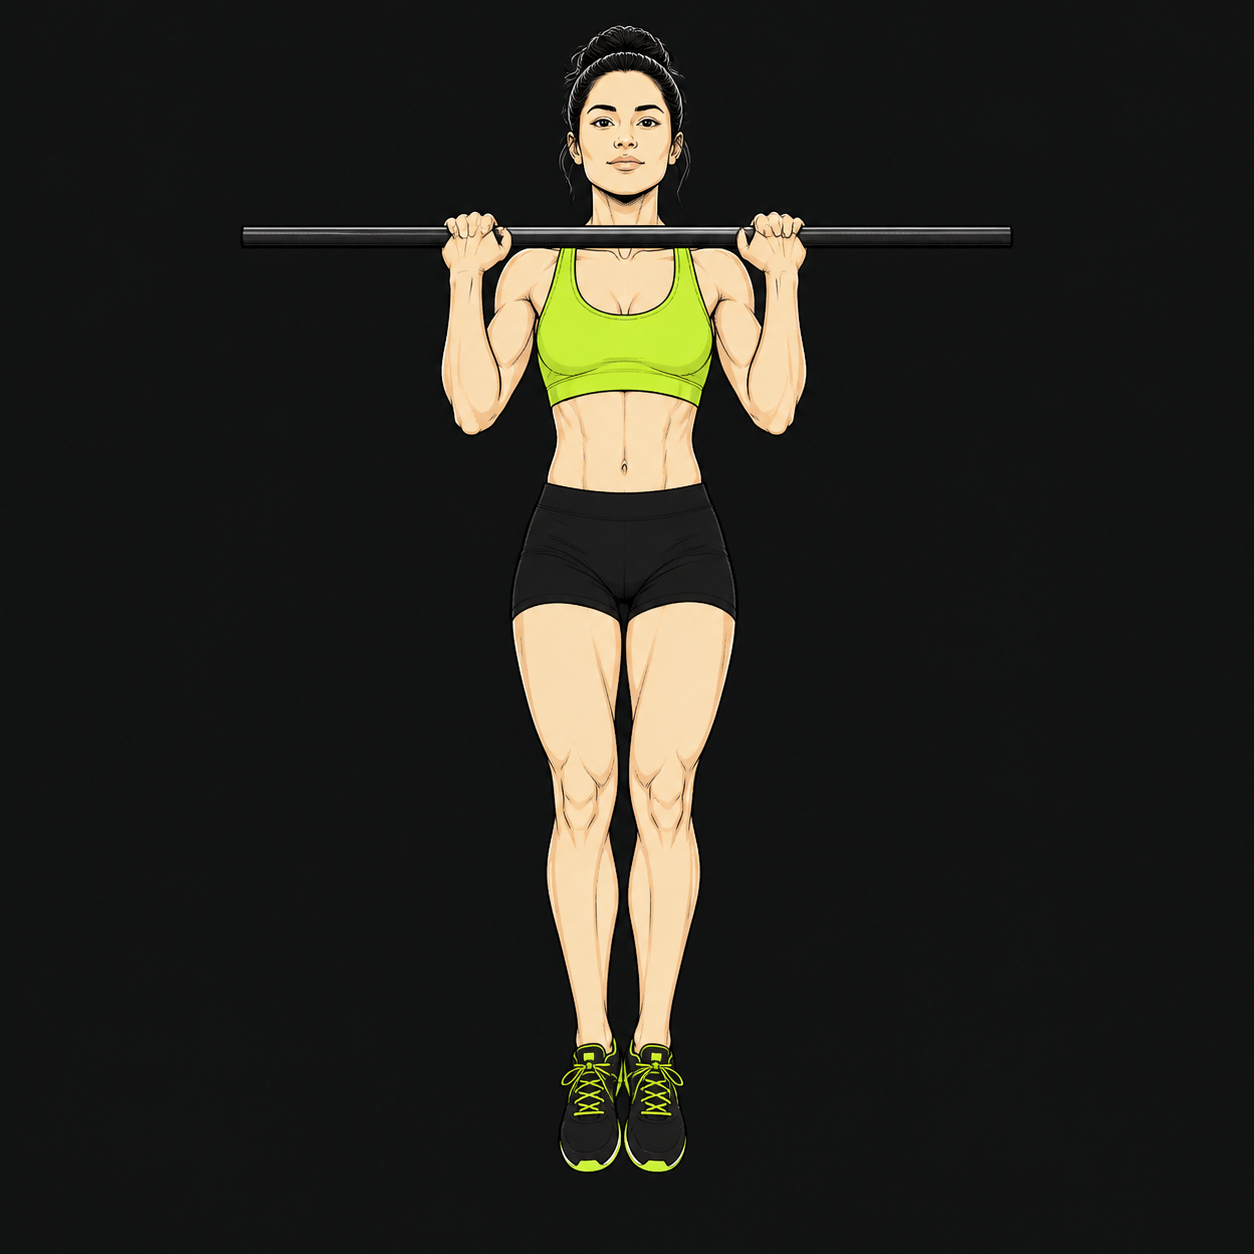
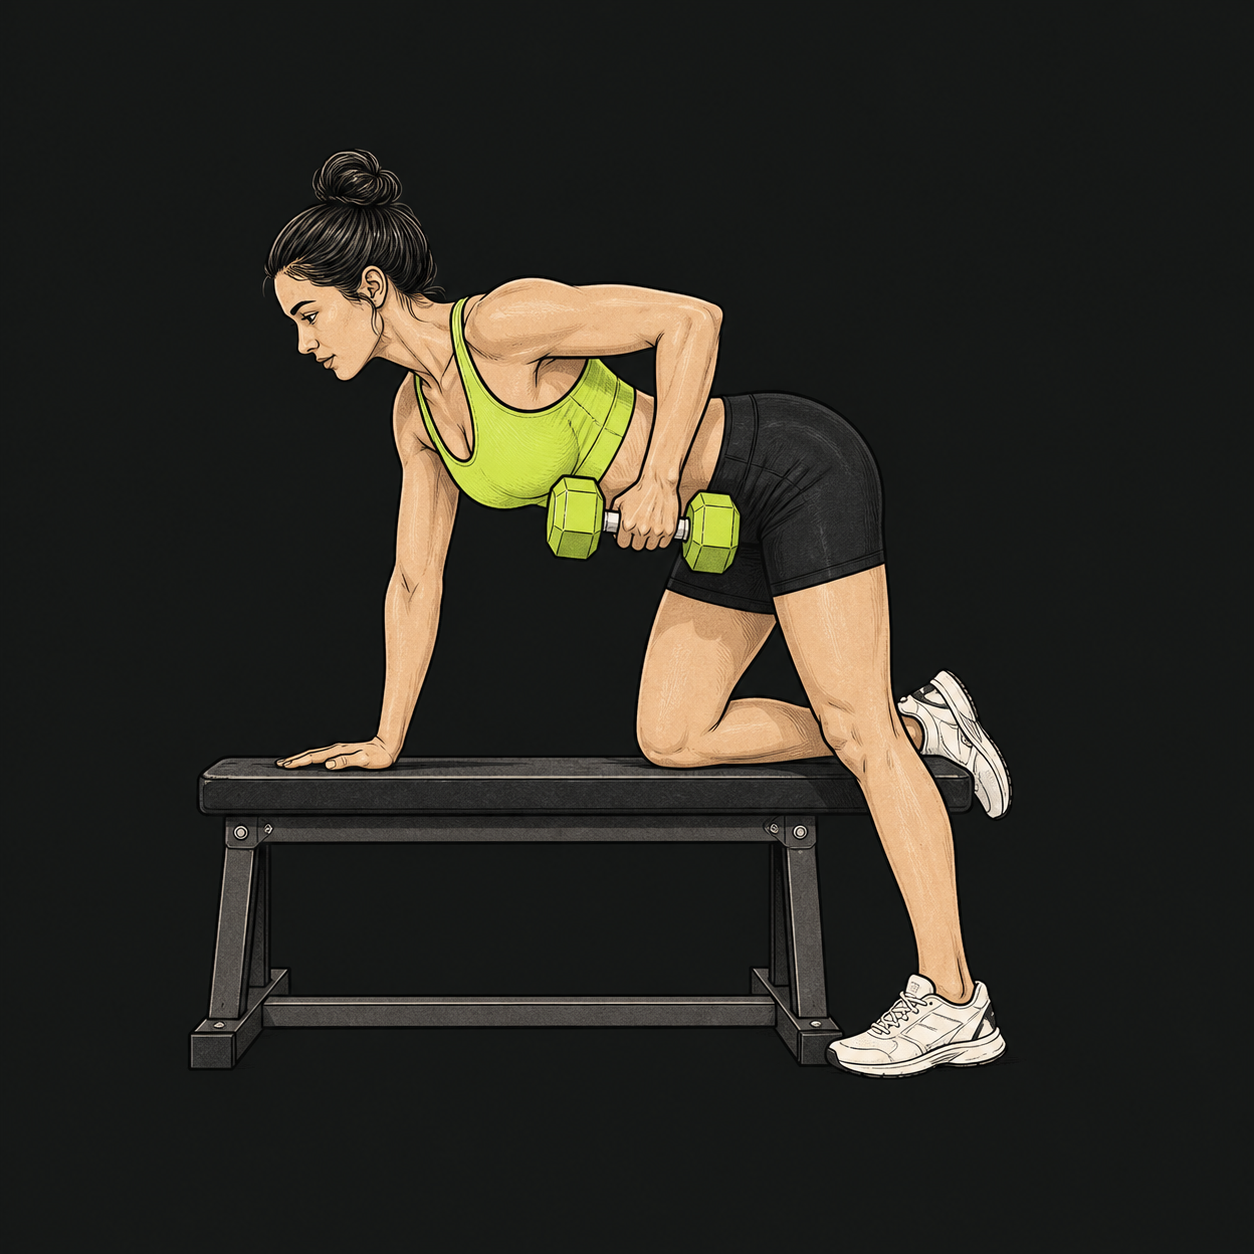
Correct supported dumbbell row guide

Changed region(s): [[0.1555, 0.0311, 0.8086, 0.933]]

diff --git a/app.js b/app.js
@@ -17,7 +17,7 @@ const plans = {
  shoulders: { A:[['Front Raise','6 reps · 3 sets']], B:[['Front Raise','6 reps · 3 sets'],['Lateral Raise','12 reps · 2 sets']], C:[['Front Raise','6 reps'],['Lateral Raise','12 reps'],['Dumbbell Overhead Press','40 reps']] },
  triceps: { A:[['Decline Dumbbell Triceps Extension','12 reps · 3 sets']], B:[['Decline Dumbbell Triceps Extension','12 reps · 2 sets'],['Bar Dip','6 reps · 2 sets']], C:[['Bar Dip','6 reps'],['Decline Dumbbell Triceps Extension','6 reps'],['Tate Press','40 reps']] },
  biceps: { A:[['Dumbbell Curl','6 reps · 3 sets']], B:[['Dumbbell Curl','6 reps · 3 sets'],['Zottman Curl','12 reps · 2 sets']], C:[['Dumbbell Curl','6 reps'],['Zottman Curl','12 reps'],['Incline Dumbbell Curl','40 reps']] },
- back: { A:[['Dumbbell Bent Row','6 reps · 3 sets']], B:[['Pull-up','6 reps · 3 sets'],['Dumbbell Bent Row','6 reps · 3 sets'],['Seated Dumbbell Shrug','12 reps · 2 sets']], C:[['Pull-up','12 reps'],['Dumbbell Bent Row','6 reps'],['Reverse Fly','12 reps'],['Dumbbell Pullover','40 reps'],['Seated Dumbbell Shrug','12 reps · 2 sets']] },
+ back: { A:[['Dumbbell Bent Row','6 reps · 3 sets']], B:[['Supported Dumbbell Row','6 reps · 3 sets'],['Dumbbell Bent Row','6 reps · 3 sets'],['Seated Dumbbell Shrug','12 reps · 2 sets']], C:[['Supported Dumbbell Row','12 reps'],['Dumbbell Bent Row','6 reps'],['Reverse Fly','12 reps'],['Dumbbell Pullover','40 reps'],['Seated Dumbbell Shrug','12 reps · 2 sets']] },
  abs: { A:[['Crunch','Choose a comfortable set'],['Russian Twist','Choose a comfortable set'],['Side Bend','Choose a comfortable set']] },
  calves: { A:[['Calf Raise','Choose a comfortable set']] }
 };
@@ -36,7 +36,7 @@ const tips = {
  'Bar Dip':['Shoulders down, chest proud','Support yourself with straight arms. Lower only as far as your shoulders feel comfortable, then press the bars away. Avoid dropping into the bottom.'],
  'Tate Press':['Dumbbells meet above the chest','Lie on a bench. Start with dumbbells over your chest, palms facing your feet; lower toward the chest by bending elbows out, then extend back up. Light weight first.'],
  'Dumbbell Bent Row':['Row toward your hip','Hinge until your torso is near parallel to the floor. Keep your spine long, pull elbows toward the hips, pause, then lower fully.'],
- 'Pull-up':['Start from a controlled hang','Grip the bar, set your shoulders down, pull your chest toward the bar, then lower under control. Use assistance if form fades.'],
+ 'Supported Dumbbell Row':['Row toward your hip','Place one hand and the same-side knee on a stable bench. Keep your back long and row the dumbbell toward your hip; lower it slowly without twisting the torso.'],
  'Seated Dumbbell Shrug':['Straight up and down','Sit tall with dumbbells at your sides. Lift shoulders toward ears, pause briefly, and lower slowly. Do not roll the shoulders.'],
  'Reverse Fly':['Open wide, stay light','Hinge forward and keep a gentle elbow bend. Sweep arms out until in line with your body; focus on the back of the shoulders.'],
  'Dumbbell Pullover':['Ribs down, arc behind you','Lie across or along a bench. With softly bent elbows, lower one dumbbell behind your head only as far as shoulders allow, then pull it back over chest.'],
@@ -64,7 +64,7 @@ const formImages = {
  'Bar Dip':'bar-dip-form.png',
  'Tate Press':'tate-press-form.png',
  'Dumbbell Bent Row':'dumbbell-bent-row-form.png',
- 'Pull-up':'pull-up-form.png',
+ 'Supported Dumbbell Row':'pull-up-form.png',
  'Seated Dumbbell Shrug':'seated-dumbbell-shrug-form.png',
  'Reverse Fly':'reverse-fly-form.png',
  'Dumbbell Pullover':'dumbbell-pullover-form.png',

diff --git a/service-worker.js b/service-worker.js
@@ -1,4 +1,4 @@
-const CACHE = 'dumbbell-days-v7';
+const CACHE = 'dumbbell-days-v8';
 const ASSETS = ['./', './index.html', './styles.css', './app.js', './manifest.webmanifest', './icon.svg', './icons/icon-192.png', './icons/icon-512.png',
   './assets/calf-raise-form.png', './assets/keystone-dumbbell-deadlift-form.png', './assets/sissy-squat-form.png', './assets/dumbbell-lunge-form.png', './assets/free-squat-form.png',
   './assets/dumbbell-bench-press-form.png', './assets/chest-fly-form.png', './assets/dumbbell-reverse-grip-bench-form.png', './assets/front-raise-form.png', './assets/lateral-raise-form.png', './assets/dumbbell-overhead-press-form.png',
